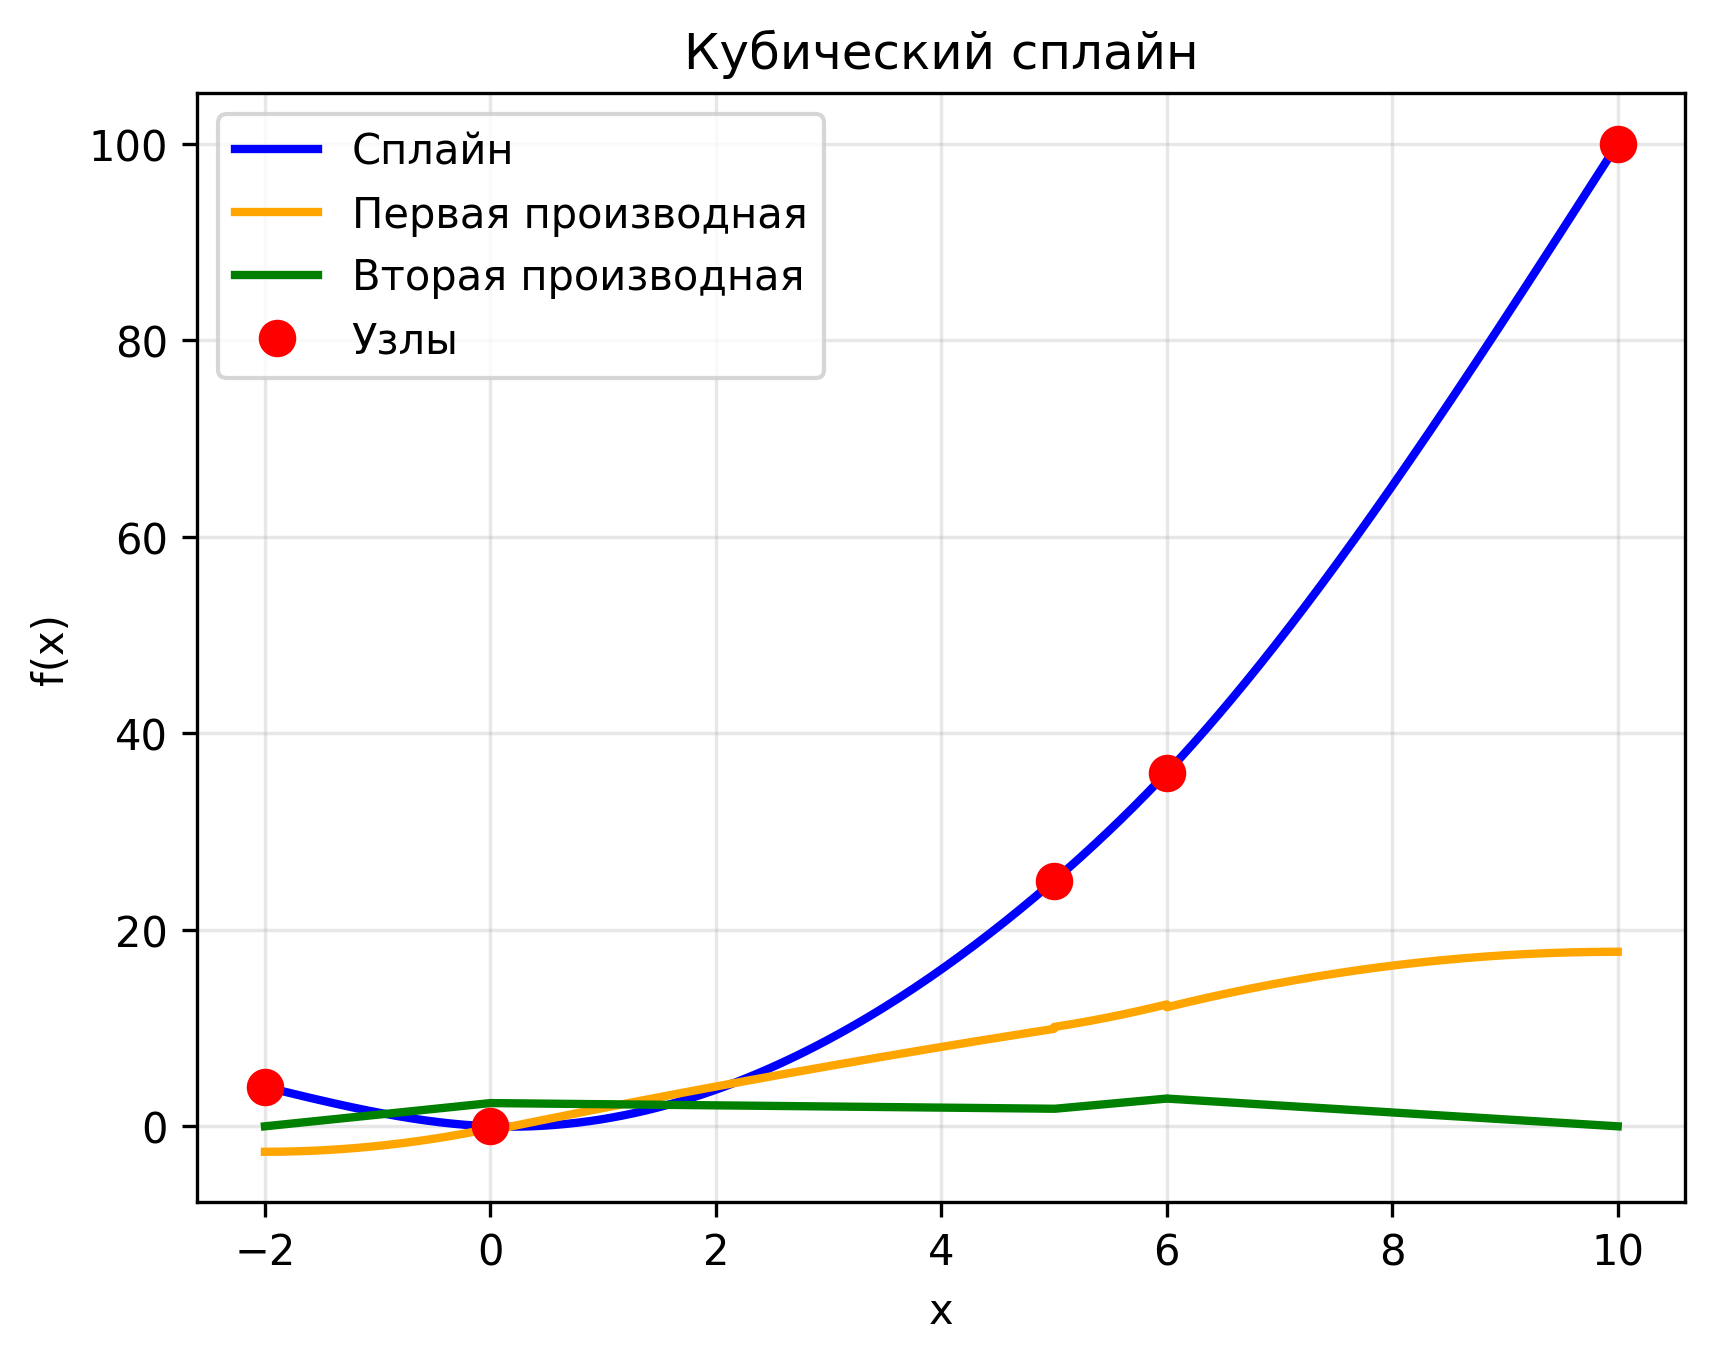
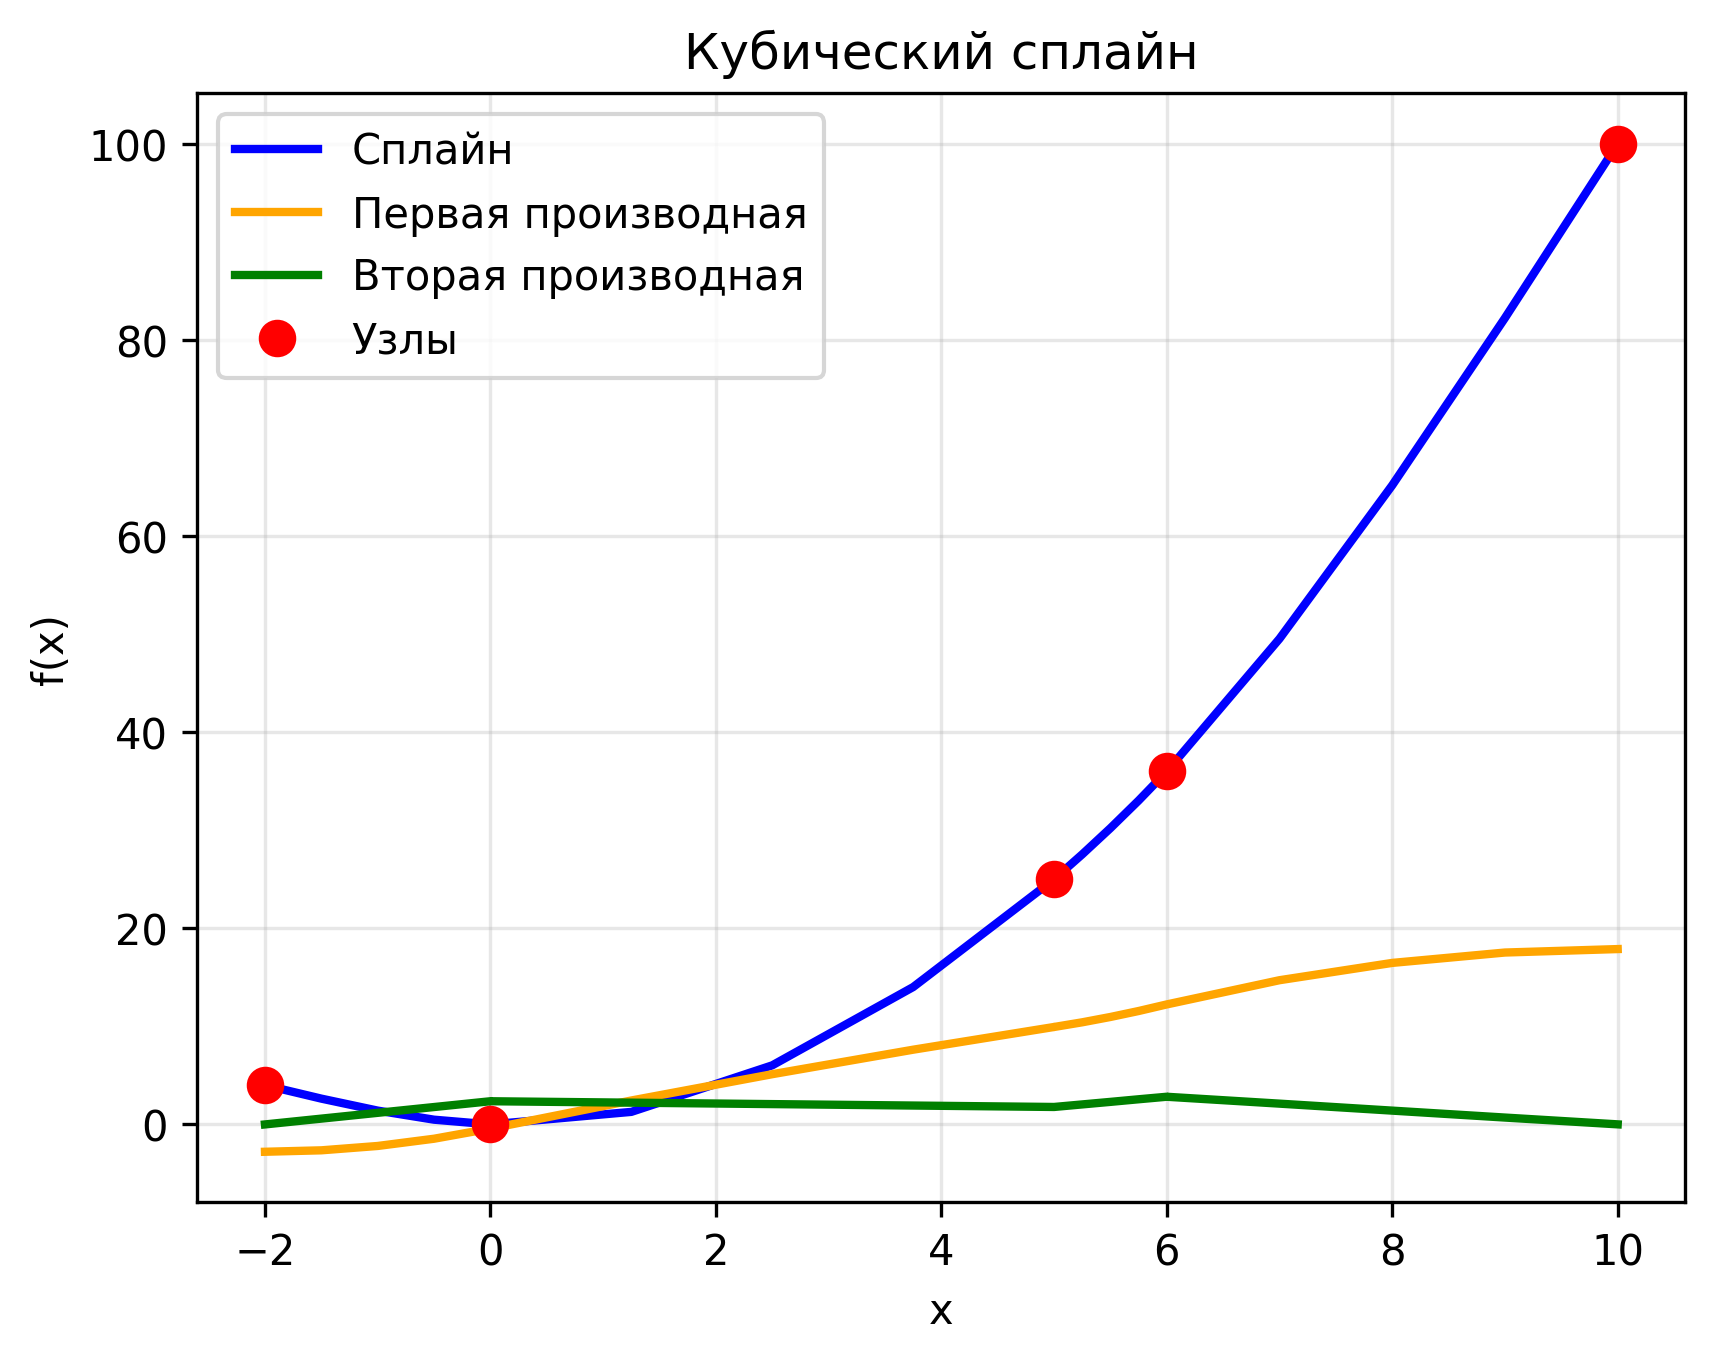
feat(math_lab5): реализовать 5-ую лабораторную работу

diff --git a/Math_lab5.py b/Math_lab5.py
@@ -1,7 +1,154 @@
-#Левых прямоугольников, средних прямоугольников, 5-го порядка
+#Левых прямоугольников, средних прямоугольников, 5-го порядка аппроксимации
+from typing import Callable
 
 class Functions:
     @staticmethod
     def func(x):
         return (1 + x**0.5) / (1 + 4 * x + 3 * x**2)
 
+    @classmethod
+    def derivative(cls, x: list , y: list, h: float = 1e-6):
+        n = len(x)
+        derivatives = [(-3*y[0] + 4*y[1] - y[2]) / (2*h)]
+        for i in range(1, n-1):
+            derivatives.append((y[i+1] - y[i-1])/(2*h))
+        derivatives.append((3 * y[n - 1] - 4 * y[n - 2] + y[n - 3]) / (2 * h))
+        return derivatives
+
+    @classmethod
+    def second_derivative(cls, x: list, y: list, h: float = 1e-6):
+        n = len(x)
+        derivatives = []
+
+        derivatives.append((2 * y[0] - 5 * y[1] + 4 * y[2] - y[3]) / (h ** 2))
+
+        for i in range(1, n - 1):
+            derivatives.append(
+                (y[i + 1] - 2 * y[i] + y[i - 1]) / (4 * h ** 2))
+
+        derivatives.append((2 * y[n - 1] - 5 * y[n - 2] + 4 * y[n - 3] - y[n - 4]) / (h ** 2))
+
+        return derivatives
+
+    @classmethod
+    def sixth_derivative(cls, x: list, y: list, h: float = 1e-6):
+        n = len(x)
+        if n < 7:
+            return [0]
+        derivatives = []
+
+        for i in range(3, n - 3):
+            d6 = (y[i + 3] - 6 * y[i + 2] + 15 * y[i + 1] - 20 * y[i] + 15 * y[i - 1] - 6 * y[i - 2] + y[i - 3]) / (h ** 6)
+            derivatives.append(d6)
+
+        return derivatives
+
+class Methods:
+    @classmethod
+    def left_rectangle(cls, x_start: float = 0.5, x_end: float = 4.5, h: float = 1e-3, with_r: bool = False, func: Callable = Functions.func) -> float:
+        total_sum: float = 0
+        x = x_start
+        if (with_r):
+            x_list: list = []
+            y_list: list = []
+
+        while x < x_end:
+            y = func(x)
+            total_sum += y
+            if (with_r):
+                x_list.append(x)
+                y_list.append(y)
+            x += h
+
+        if (with_r):
+            derivatives = Functions.derivative(x_list, y_list, h)
+            M1 = max(abs(d) for d in derivatives)
+            R = (h / 2) * (x_end - x_start) * M1
+            print(f'Погрешность R <= {abs(R)}')
+
+        return h * total_sum
+
+    @classmethod
+    def average_rectangle(cls, x_start: float = 0.5, x_end: float = 4.5, h: float = 10e-3, with_r: bool = False, func: Callable = Functions.func) -> float:
+        total_sum = 0
+        x = x_start
+        if (with_r):
+            x_list: list = []
+            y_list: list = []
+        while x < x_end:
+            y = func(x)
+            total_sum += func((x + x+h) / 2)
+            if (with_r):
+                x_list.append(x)
+                y_list.append(y)
+            x += h
+        if (with_r):
+            M2 = max(abs(b) for b in Functions.second_derivative(x_list, y_list, h))
+            R = h**2 / 24 * M2 * (x_end - x_start)
+
+            print(f'Погрешность R <= {abs(R)}')
+        return h * total_sum
+
+    @classmethod
+    def sixth_order_accuracy(cls, x_start: float = 0.5, x_end: float = 4.5, h: float = 1e-3, with_r: bool = False, func: Callable = Functions.func) -> float:
+
+        n_segments = int((x_end - x_start) / h)
+
+        if n_segments % 5 != 0:
+            n_segments = 5 + (n_segments // 5) * 5
+            h = (x_end - x_start) / n_segments
+        total_sum = 0
+        x = x_start
+
+        if with_r:
+            x_list = []
+            y_list = []
+
+        c0 = 5.0 / 288.0
+        weights = [19, 75, 50, 50, 75, 19]
+
+        while x < x_end:
+            f0 = func(x)
+            f1 = func(x + h)
+            f2 = func(x + 2 * h)
+            f3 = func(x + 3 * h)
+            f4 = func(x + 4 * h)
+            f5 = func(x + 5 * h)
+
+            if with_r:
+                x_list.extend([x, x + h, x + 2 * h, x + 3 * h, x + 4 * h, x + 5 * h])
+                y_list.extend([f0, f1, f2, f3, f4, f5])
+
+            block_sum = (weights[0] * f0 + weights[1] * f1 + weights[2] * f2 + weights[3] * f3 + weights[4] * f4 + weights[5] * f5)
+            total_sum += block_sum
+
+            x += 5 * h
+
+        result = c0 * h * total_sum
+
+        if with_r:
+            sixth_derivs = Functions.sixth_derivative(x_list, y_list, h/2)
+            M6 = max(abs(d) for d in sixth_derivs)
+            R = (x_end - x_start) * (h ** 6) * M6 / 945
+            print(f'Погрешность R <= {abs(R)}')
+
+        return result
+
+    @classmethod
+    def find_h(cls, function: Callable, x_start: float = 0.5, x_end: float = 4.5, eps: float = 1e-3, p: int = 1):
+        h = (x_end - x_start) / 4
+
+        while True:
+            S1 = function(x_start, x_end, h)
+            S2 = function(x_start, x_end, h/2)
+
+            if (abs(S1-S2) / (2**p - 1) < eps):
+                break
+            else:
+                h /= 2
+
+        return function(x_start, x_end, h/2, True), h/2
+
+print(f'S и h соответственно: {Methods.find_h(Methods.left_rectangle)}')
+print(f'S и h соответственно: {Methods.find_h(Methods.average_rectangle, p=2)}')
+print(f'S и h соответственно: {Methods.find_h(Methods.sixth_order_accuracy, p=6)}')

diff --git a/Math_lab4.py b/Math_lab4.py
@@ -12,20 +12,28 @@ class Functions:
         return 4 * x**2
 
     @classmethod
-    def first_derivative(cls, x: float = 0, func: Callable = f, h: float = 1) -> float:
+    def first_derivative(cls, x: float = 0, func: Callable = f, h: float = 1e-6) -> float:
         return (func(x+h) - func(x)) / (x+h - x)
 
     @classmethod
-    def first_derivative_second(cls, x: float = 0, func: Callable | list = f, h: float = 1) -> float:
+    def first_derivative_second(cls, x: float = 0, func: Callable | list = f, h: float = 1e-6) -> float:
         if type(func) == list:
             return ((func[1] - func[0]) / (2*h))
         return (func(x+h) - func(x-h))/ (2*h)
 
     @classmethod
-    def second_derivative(cls, x: float = 0, func: Callable | list = f, h: float = 1) -> float:
+    def second_derivative(cls, x: float = 0, func: Callable | list = f, h: float = 1e-6) -> float:
         if type(func) == list:
-            return (func[2] - 2 * func[1] + func[0] / (4 * h**2))
+            return ((func[2] - 2 * func[1] + func[0]) / (4 * h**2))
         return (func(x + 2 * h) - 2 * func(x) + func(x-2*h)) / (4 * h**2)
+
+    @classmethod
+    def first_derivative_by_value(cls):
+        pass
+
+    @classmethod
+    def second_derivative_by_value(cls):
+        pass
 
 class NumberOne:
     @staticmethod
@@ -145,7 +153,7 @@ class CubicSpline(Functions):
         plt.savefig('cubicspline.png', dpi=300, bbox_inches='tight')
 
 #NumberOne.first_number()
-CubicSpline.draw_cubic_spline([0, -2, 5, 6, 10], [0, 4, 25, 36, 100])
+CubicSpline.draw_cubic_spline([-2, 0, 5, 6, 10], [4, 0, 25, 36, 100])
 
 print(CubicSpline.first_derivative(0))
 print(CubicSpline.first_derivative(2))

diff --git a/Model_lab2.py b/Model_lab2.py
@@ -70,10 +70,9 @@ def run_simulation(num_devices, buffer_size, num_details=100000):
                     device.total_failures += 1
                     device.failed_until = arrival_to_device + max(0.1, random.gauss(15, 3))
                     device.busy_until = arrival_to_device
-                    if device.try_add_to_buffer(arrival_to_device):
-                        pass
-                    else:
-                        pass
+                    device.try_add_to_buffer(arrival_to_device)
+
+
                 else:
                     device.busy_until = arrival_to_device + service
                     device.total_served += 1
@@ -90,9 +89,6 @@ def run_simulation(num_devices, buffer_size, num_details=100000):
             lost_all += 1
 
         next_arrival = current_time + random.uniform(3, 7)
-
-    max_simulation_time = max(d.busy_until for d in devices)
-    max_simulation_time = max(max_simulation_time, max(d.failed_until for d in devices))
 
     current_time = next_arrival
     while any(len(d.buffer) > 0 or not d.is_free(current_time) for d in devices):
@@ -124,8 +120,5 @@ for n in devices_range:
         processed, lost = run_simulation(n, b, 50000)
         percent = processed / 50000 * 100
         print(f'''
-Устройств:{n}
-Размер буфера:{b}
-Выполнено:{processed}
-Потери:{lost}
-Процент:{percent:.2f}%''')
+Устройств:{n} Размер буфера:{b} Выполнено:{processed} Потери:{lost} Процент:{percent:.2f}%''')
+